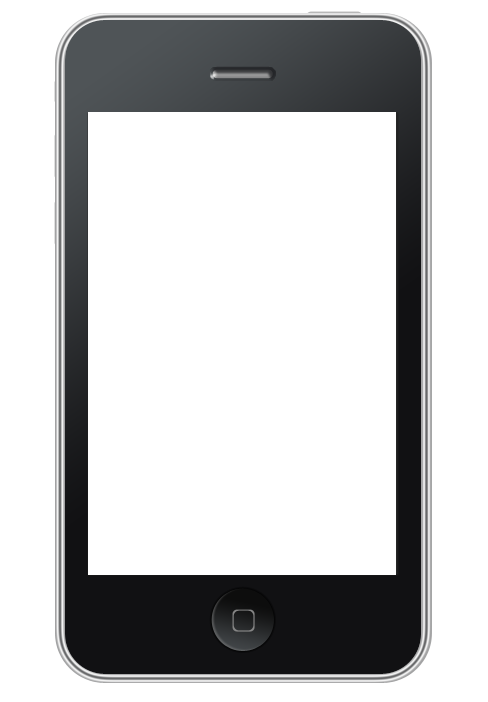
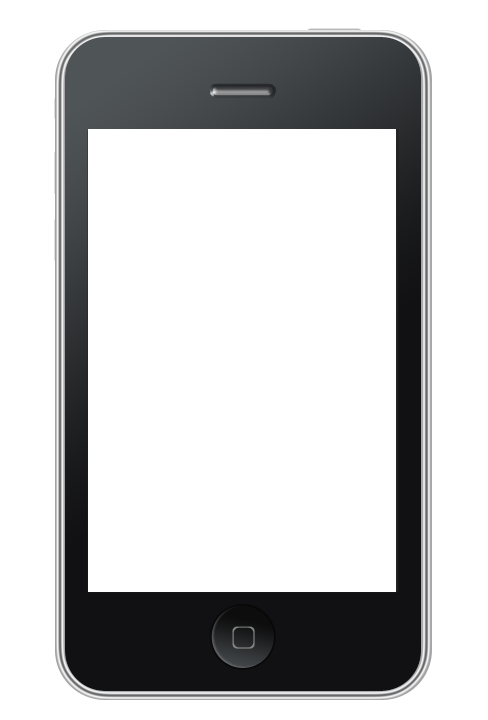
iphone 3g fix

diff --git a/app/assets/stylesheets/promo.css.scss b/app/assets/stylesheets/promo.css.scss
@@ -41,7 +41,7 @@ body.promo {
       .screenshots {
         img {
           width: 310px;
-          margin:119px 87px;
+          margin:136px 87px;
         }
       }
     }
